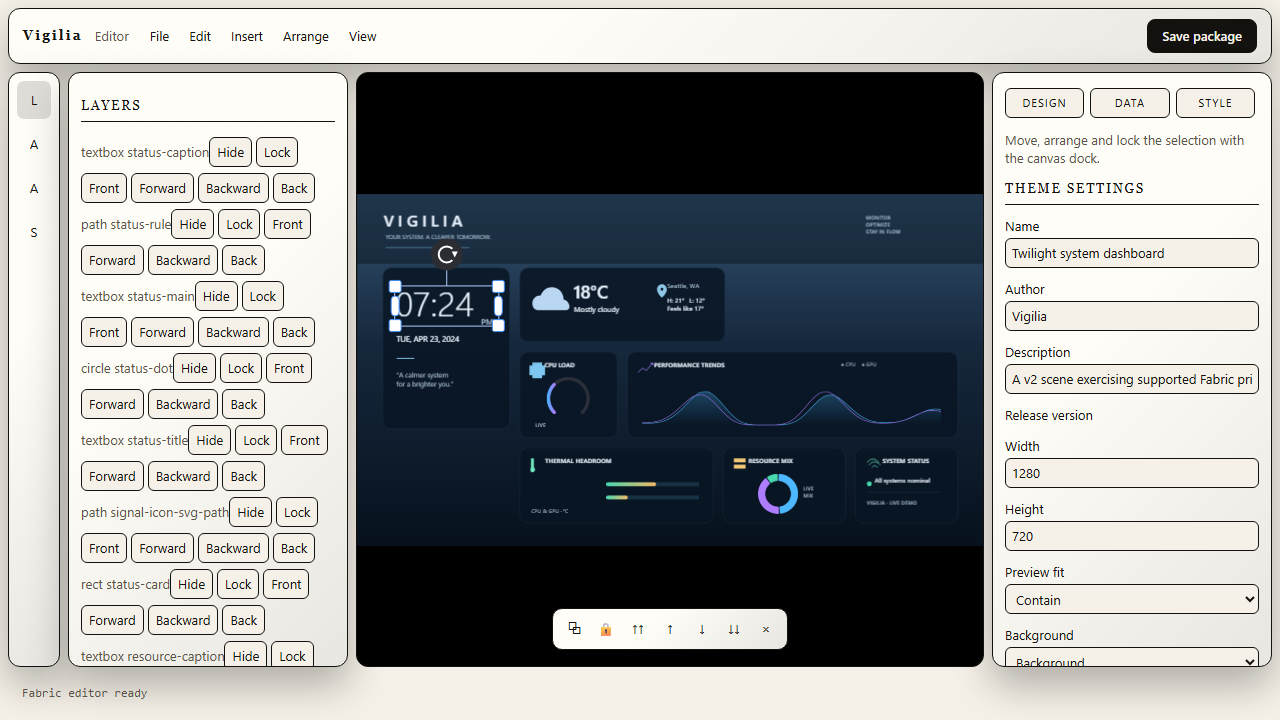
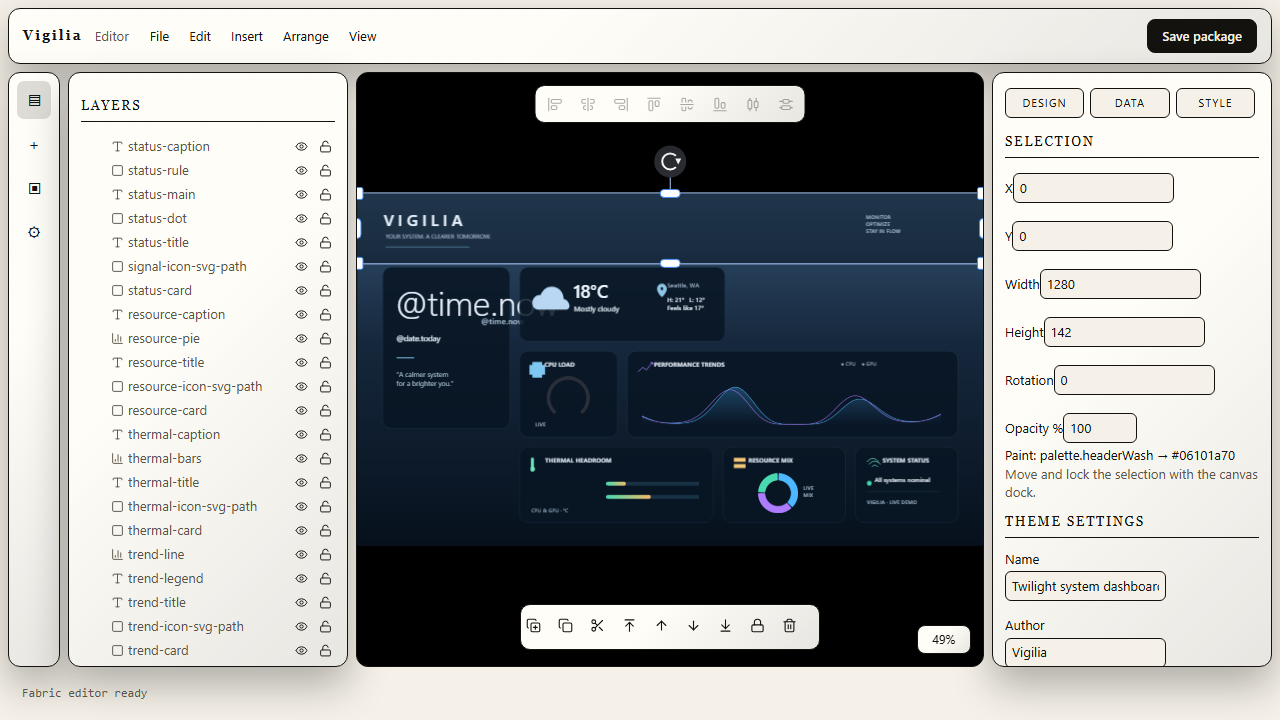
feat(editor): move arrange to the canvas toolbar
Arrange needs a multi-selection, so it belongs above the canvas rather than
in the dock's "what you can do now" filter. The toolbar renders all eight
actions and greys them until two objects are selected, so the controls stay
discoverable.

`arrangeEligible` is exported from the registry so the toolbar reads the
rule from its owner; it takes the count and lock flag rather than a target,
because `target()` is undefined until a bridge is set.

diff --git a/src/web/packages/editor/src/editor-shell/shell-layout.tsx b/src/web/packages/editor/src/editor-shell/shell-layout.tsx
@@ -5,6 +5,7 @@ import { flushSync } from "react-dom";
 import { createRoot, type Root } from "react-dom/client";
 import { useSyncExternalStore } from "react";
 import { uiCopy } from "../ui-copy.js";
+import { arrangeActions, arrangeEligible } from "../object-actions.js";
 import type { ActiveKind, EditorShellBridge, EditorShellSnapshot } from "./bridge.js";
 import { CanvasDock } from "./canvas-dock.js";
 import { LayerPanel } from "./layer-panel.js";
@@ -117,6 +118,39 @@ class SelectionStore {
 
 function useSelection(store: SelectionStore): EditorShellSnapshot {
   return useSyncExternalStore(store.subscribe, store.get, store.get);
+}
+
+/** Arrange sits above the canvas because it needs a multi-selection, not one
+ * object. It stays visible and greyed rather than being filtered out like the
+ * dock's actions, so the controls are discoverable before a selection exists. */
+function ArrangeToolbar({
+  store,
+}: {
+  readonly store: SelectionStore;
+}): React.JSX.Element {
+  const selection = useSelection(store);
+  const canArrange = arrangeEligible(selection.selectedCount, selection.locked);
+  return (
+    <div
+      className="editor-shell-arrange editor-glass"
+      role="toolbar"
+      aria-label={uiCopy.arrangeToolbar.label}
+      data-vigilia-arrange-toolbar=""
+    >
+      {arrangeActions().map(({ id, icon: Icon, label }) => (
+        <button
+          key={id}
+          type="button"
+          aria-label={label}
+          title={label}
+          disabled={!canArrange}
+          onClick={() => store.bridge?.run(id)}
+        >
+          <Icon aria-hidden size={15} strokeWidth={1.75} />
+        </button>
+      ))}
+    </div>
+  );
 }
 
 function readStorage(): Storage | undefined {
@@ -342,6 +376,7 @@ export function createShellLayout(root: HTMLElement): ShellLayout {
           </aside>
           <main id="stage" className="editor-shell-stage" aria-label="Editor canvas">
             <Host node={hosts.canvas} />
+            <ArrangeToolbar store={store} />
             <nav
               className="editor-shell-dock editor-glass"
               aria-label={uiCopy.dock.label}
@@ -375,7 +410,7 @@ export function createShellLayout(root: HTMLElement): ShellLayout {
                   <p className="editor-shell-hint">
                     {kind === "chart"
                       ? "Chart settings are under Data."
-                      : "Move, arrange and lock the selection with the canvas dock."}
+                      : "Move and lock the selection with the canvas dock."}
                   </p>
                 )}
                 <Host node={hosts.document} />

diff --git a/src/web/packages/editor/src/editor-shell/shell-layout.dom.test.tsx b/src/web/packages/editor/src/editor-shell/shell-layout.dom.test.tsx
@@ -1,5 +1,6 @@
 // @vitest-environment jsdom
 import { expect, it, vi } from "vitest";
+import { arrangeActions } from "../object-actions.js";
 import type { EditorShellBridge } from "./bridge.js";
 import { createShellLayout } from "./shell-layout.js";
 import type { EditorActionFacade } from "./session-facade.js";
@@ -54,13 +55,14 @@ function bridgeStub(
     run: vi.fn(),
     session: facade(),
     // Only the camera is stubbed: the readout subscribes to it, so an empty
-    // object here would throw rather than exercise the shell.
+    // object here would throw rather than exercise the shell. The shell only
+    // reaches `viewport`, so the double cast is the partial stub's whole point.
     editor: {
       viewport: {
         zoom: () => 1,
         onChange: () => () => undefined,
       },
-    } as EditorShellBridge["editor"],
+    } as unknown as EditorShellBridge["editor"],
     destroy: vi.fn(),
     ...overrides,
   };
@@ -146,6 +148,21 @@ it("shows one rail pane at a time and routes the dock through the bridge", async
 
   duplicate?.click();
   expect(run).toHaveBeenCalledWith("duplicate");
+
+  layout.destroy();
+});
+
+it("puts arrange on the canvas toolbar, disabled without a multi-selection", () => {
+  const root = document.createElement("div");
+  const layout = createShellLayout(root);
+  const toolbar = root.querySelector("[data-vigilia-arrange-toolbar]");
+  expect(toolbar).not.toBeNull();
+  // Derived, not a literal: `ARRANGE_ICONS` holds eight today, and a ninth
+  // added to the registry must fail here rather than be silently dropped by
+  // the toolbar. Same rule as Task 9's context menu.
+  expect(toolbar?.querySelectorAll("button")).toHaveLength(arrangeActions().length);
+  for (const button of toolbar?.querySelectorAll("button") ?? [])
+    expect(button.disabled).toBe(true);
 
   layout.destroy();
 });

diff --git a/src/web/packages/editor/src/editor-shell/editor-shell.css b/src/web/packages/editor/src/editor-shell/editor-shell.css
@@ -273,7 +273,8 @@ body,
 }
 .editor-shell-rail button,
 .editor-shell-inspector button,
-.editor-shell-dock button {
+.editor-shell-dock button,
+.editor-shell-arrange button {
   color: var(--shell-text);
   border: 0;
   background: transparent;
@@ -287,7 +288,8 @@ body,
   background: color-mix(in srgb, var(--shell-text) 14%, transparent);
 }
 .editor-shell-rail button:hover,
-.editor-shell-dock button:hover {
+.editor-shell-dock button:hover,
+.editor-shell-arrange button:hover {
   background: color-mix(in srgb, var(--shell-text) 10%, transparent);
 }
 .editor-shell-panel {
@@ -491,6 +493,33 @@ body,
 .editor-shell-dock button:disabled {
   opacity: 0.35;
   cursor: default;
+}
+/* Top-centre: the dock owns the bottom-centre and the zoom readout the
+   bottom-right, so this is the only unclaimed edge of the stage. */
+.editor-shell-arrange {
+  position: absolute;
+  z-index: 3;
+  top: 12px;
+  left: 50%;
+  transform: translateX(-50%);
+  display: flex;
+  gap: 3px;
+  padding: 4px;
+  border-radius: 10px;
+}
+.editor-shell-arrange button {
+  width: 30px;
+  height: 28px;
+  display: inline-flex;
+  align-items: center;
+  justify-content: center;
+}
+.editor-shell-arrange button:disabled {
+  opacity: 0.35;
+  cursor: default;
+}
+.editor-shell-arrange button:disabled:hover {
+  background: transparent;
 }
 .editor-shell-zoom {
   position: absolute;

diff --git a/src/web/packages/editor/src/object-actions.ts b/src/web/packages/editor/src/object-actions.ts
@@ -184,6 +184,15 @@ const ARRANGE_ICONS: Readonly<Record<ArrangeAction, LucideIcon>> = {
   "distribute-y": AlignVerticalDistributeCenter,
 };
 
+/**
+ * Arrange's eligibility, as two numbers rather than a target: the toolbar
+ * reads it from the shell snapshot's `selectedCount`, not from `target()`,
+ * which is undefined until a bridge is set.
+ */
+export function arrangeEligible(count: number, locked: boolean): boolean {
+  return count > 1 && !locked;
+}
+
 /** Arrange is its own group: it needs two or more objects and its own owner. */
 export function arrangeActions(): readonly ObjectAction[] {
   return (Object.keys(ARRANGE_ICONS) as ArrangeAction[]).map((action) => ({
@@ -191,7 +200,7 @@ export function arrangeActions(): readonly ObjectAction[] {
     label: uiCopy.arrangeLabels[action],
     icon: ARRANGE_ICONS[action],
     // canArrange also refuses a locked member, so eligibility has to agree.
-    eligible: (target) => target.memberCount > 1 && !target.locked,
+    eligible: (target) => arrangeEligible(target.memberCount, target.locked),
     run: (editor) => void applyArrange(editor, action),
   }));
 }

diff --git a/src/web/tests/e2e/editor.spec.ts b/src/web/tests/e2e/editor.spec.ts
@@ -1784,6 +1784,14 @@ test.describe("Fabric editor route", () => {
     // A single object cannot be ungrouped.
     await expect(dock.getByRole("button", { name: "Ungroup" })).toHaveCount(0);
 
+    // The toolbar is the arrange surface: it stays visible for one object, so
+    // the capture shows the discoverable-but-greyed state.
+    const toolbar = page.locator("[data-vigilia-arrange-toolbar]");
+    await expect(toolbar).toBeVisible();
+    await expect(
+      toolbar.getByRole("button", { name: "Align left" }),
+    ).toBeDisabled();
+
     await captureVisualReview(page, testInfo, "editor-toolbar");
   });
 

diff --git a/src/web/packages/editor/src/ui-copy.ts b/src/web/packages/editor/src/ui-copy.ts
@@ -109,6 +109,8 @@ export const uiCopy = {
     "distribute-y": "Distribute vertically",
   },
   dock: { label: "Selected object actions" },
+  /** The stage toolbar's accessible name; the eight buttons carry the labels. */
+  arrangeToolbar: { label: "Arrange the selection" },
   /** The stage camera's readout; `label` is also the control's accessible name. */
   zoom: {
     label: "Zoom level",

diff --git a/docs/evidence/screenshots/README.md b/docs/evidence/screenshots/README.md
@@ -31,7 +31,7 @@ result, not merely a mounted editor.
 | Session | Show dirty New/Open confirmation | `editor-dirty-replacement` / `captures dirty document replacement confirmation` |
 | Open | Valid, invalid or incompatible file | add when changed |
 | History | Save changed document or undo visible drag | add when changed |
-| Editor mechanics | Transform/group/duplicate/delete/reorder | `editor-snap-guides` / `snaps a dragged object`; `editor-rotation-indicator` / `rotation-angle indicator`; `editor-toolbar` / `captures the selection toolbar` |
+| Editor mechanics | Transform/group/duplicate/delete/reorder | `editor-snap-guides` / `snaps a dragged object`; `editor-rotation-indicator` / `rotation-angle indicator`; `editor-toolbar` / `captures the canvas dock over a selected object` |
 | Object tools | Add/edit shape, text, image or SVG | add when integration changes |
 | Assets | Import, replace and reopen a packaged image | `editor-assets-desktop-chromium` / `imports and round-trips packaged images` |
 | Palette | Edit or reassign a palette token | `editor-palette-solid` or `editor-palette-reassignment` / `edits an artboard palette token|reassigns palette references` |
